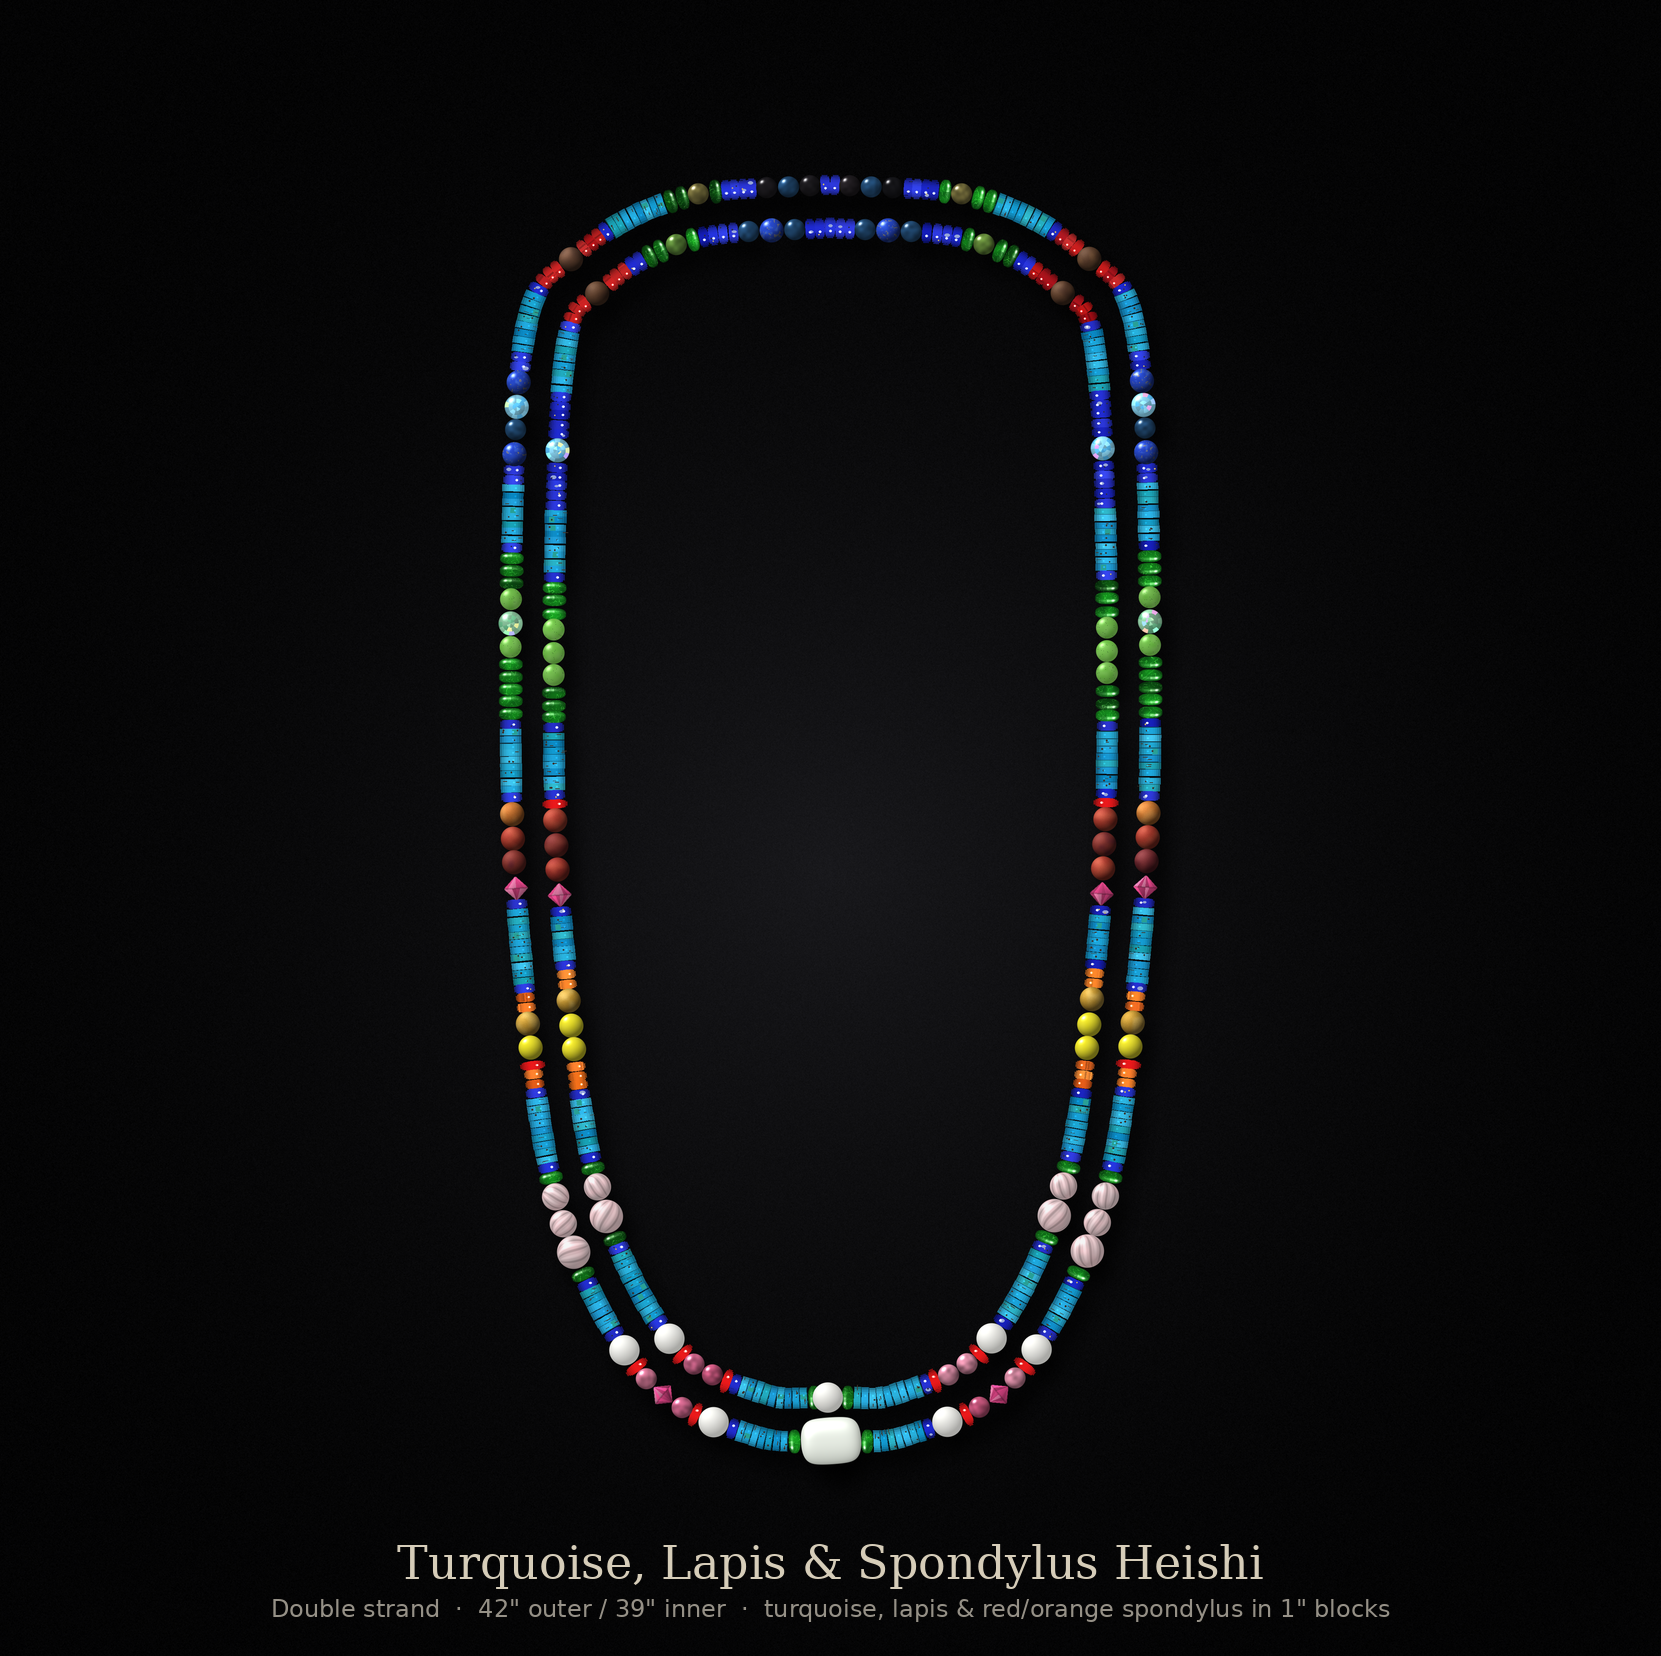
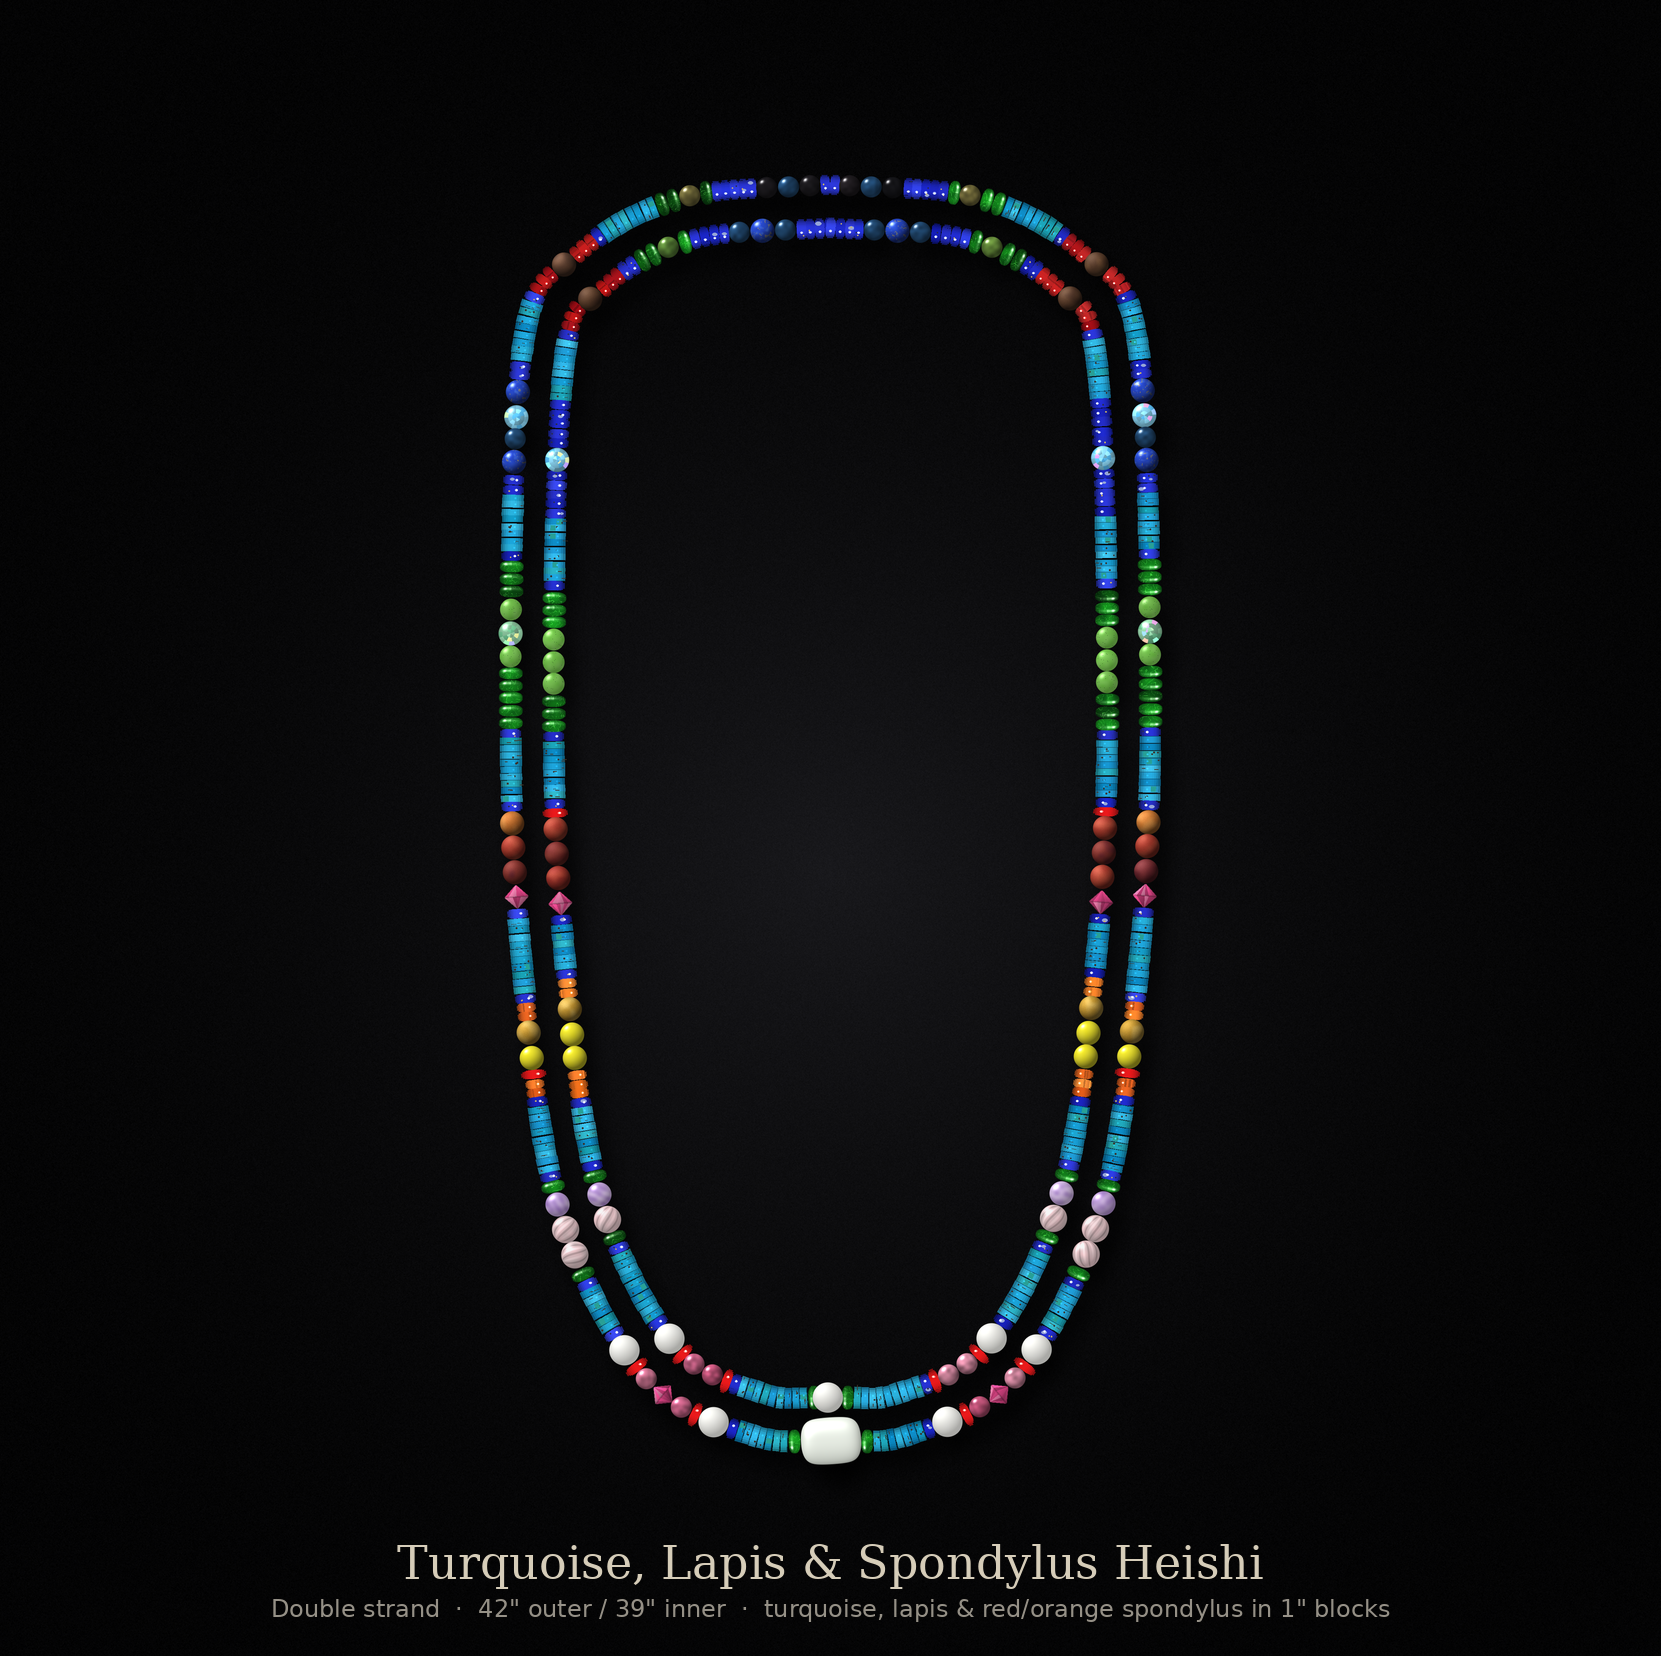
Version 5: amethyst over 9mm rose quartz; 11mm rose quartz removed
Claude-Session: https://claude.ai/code/session_014be1vF4Rdf8sv9Si75Gudv

diff --git a/necklace/render_necklace.py b/necklace/render_necklace.py
@@ -439,7 +439,7 @@ ROSE_D = 9.0
 PER_D, PER_L = 8.0, 4.0              # chrome diopside rondelle: 8 mm across, 4 mm along the strand
 def tsize(t):
     k = t[5] if len(t) > 5 else "tour"
-    return {"rose": ROSE_D, "rose11": 11.0, "tour_ybright": 7.0, "wjade": (10.5 if V3 else 19.7), "conch12": 12.0, "lapis8": 8.0, "conch8": 8.0, "mook8": 8.0, "abgreen8": 8.0, "yellow8": 8.0, "bicone8": 8.0, "gjade7t": 7.3, "v4_gglass": 8.0, "v4_olive": 7.0, "v4_opal10": 10.0, "v4_opal9": 9.0, "v5_opal8": 8.0, "v4_rbic": 8.0, "v4_sapph": 8.0, "v5_mookred": 8.0, "v5_tblue": 7.0, "v5_mookyel": 8.0, "v5_mookrd": 8.0, "v5_mookorg": 8.0, "ajas_t": 10.0, "bicone_lime": 8.0, "peridot": PER_L, "peridot2": 2 * PER_L, "peridot3": 3 * PER_L}.get(k, TOUR_D)
+    return {"rose": ROSE_D, "rose11": 11.0, "tour_ybright": 7.0, "wjade": (10.5 if V3 else 19.7), "conch12": 12.0, "lapis8": 8.0, "conch8": 8.0, "mook8": 8.0, "abgreen8": 8.0, "yellow8": 8.0, "bicone8": 8.0, "gjade7t": 7.3, "v4_gglass": 8.0, "v4_olive": 7.0, "v4_opal10": 10.0, "v4_opal9": 9.0, "v5_opal8": 8.0, "v5_amet": 8.0, "v4_rbic": 8.0, "v4_sapph": 8.0, "v5_mookred": 8.0, "v5_tblue": 7.0, "v5_mookyel": 8.0, "v5_mookrd": 8.0, "v5_mookorg": 8.0, "ajas_t": 10.0, "bicone_lime": 8.0, "peridot": PER_L, "peridot2": 2 * PER_L, "peridot3": 3 * PER_L}.get(k, TOUR_D)
 tourm = {0: [], 1: []}
 for n in range(0, 42):
     s_o = (n + 0.5) * INCH - HIDDEN_OUT / 2
@@ -931,7 +931,7 @@ if V4:
     SZ = {"diop": PER_L_, "jade": 7.3, "gglass": 8.0, "gtourm": 7.0, "olive": 7.0, "tan": 7.0, "pink": 7.0,
           "black": 7.0, "yellow": 8.0, "opal10": 10.0, "opal9": 9.0, "rq9": 9.0, "rq11": 11.0, "ajas": 10.0,
           "mook": 8.0, "rbic": 8.0, "sapph": 8.0, "lapis8": 8.0, "blueglass": 8.0, "red": 3.0, "orange": 3.0,
-          "redglass": 3.0, "focal": 19.7, "lapisH": 3.0, "mookred": 8.0, "tblue": 7.0, "mookyel": 8.0, "mookrd": 8.0, "mookorg": 8.0, "opal8": 8.0}
+          "redglass": 3.0, "focal": 19.7, "lapisH": 3.0, "mookred": 8.0, "tblue": 7.0, "mookyel": 8.0, "mookrd": 8.0, "mookorg": 8.0, "opal8": 8.0, "amet": 8.0}
     def F(core, flank, n):                     # wrap a core with n flank beads split either side
         a = n // 2; b = n - a
         return [flank] * a + core + [flank] * b
@@ -989,7 +989,7 @@ if V4:
         BANDS[6] = (["mookorg", "mookrd", "mookred", "mookrd"],                             # brown/red, one bead fewer
                     ["redglass", "mookrd", "mookred", "mookrd", "redglass"])                 # brown/red, one bead fewer
         # rose quartz band where the whites were (per side: 3 x 9 mm + 2 x 11 mm, so 6 + 4 in all)
-        BANDS[7] = (["diop", "rq9", "rq9", "rq11", "diop"], ["diop", "rq9", "rq11", "diop"])   # 11 mm at the bottom of the rose band
+        BANDS[7] = (["diop", "amet", "rq9", "rq9", "diop"], ["diop", "amet", "rq9", "diop"])     # amethyst on top, 9 mm rose quartz below; no 11 mm
         # whites (10 mm) move to the bottom band next to the focal; inner strand's centre bead is a white too
         BANDS[8] = (["opal10", "redglass", "pink", "rbic", "pink", "redglass", "opal10"],
                     ["opal10", "redglass", "pink", "pink", "redglass"])
@@ -1049,7 +1049,7 @@ if V4:
     LAP_BUDGET = {0: 15, 1: 15}                # lapis heishi used as dark filler, from the top down (per side)
     KIND_T = {"diop": "peridot", "jade": "gjade7t", "gglass": "v4_gglass", "gtourm": "tour_green", "olive": "v4_olive",
               "tan": "tour_yellow", "pink": "tour_pink", "black": "tour_black", "yellow": "bicone_lime",
-              "opal10": "v4_opal10", "opal9": "v4_opal9", "rq9": "rose", "rq11": "rose11", "ajas": "ajas_t", "mookred": "v5_mookred", "tblue": "v5_tblue", "mookyel": "v5_mookyel", "mookrd": "v5_mookrd", "mookorg": "v5_mookorg", "opal8": "v5_opal8",
+              "opal10": "v4_opal10", "opal9": "v4_opal9", "rq9": "rose", "rq11": "rose11", "ajas": "ajas_t", "mookred": "v5_mookred", "tblue": "v5_tblue", "mookyel": "v5_mookyel", "mookrd": "v5_mookrd", "mookorg": "v5_mookorg", "opal8": "v5_opal8", "amet": "v5_amet",
               "mook": "mook8", "rbic": "v4_rbic", "sapph": "v4_sapph", "blueglass": "conch8", "focal": "wjade"}
     HEI = {"red": 2, "orange": 3, "redglass": 5}
     V5_TARGET = None
@@ -2175,6 +2175,11 @@ for st in (0, 1):
         x, y = t[0], t[1]
         tseed += 1
         if hidden(x, y):
+            continue
+        if len(t) > 5 and t[5] == "v5_amet":
+            spr = amethyst_sprite(tseed)                   # 8 mm lavender amethyst
+            px, py = P(x, y)
+            layer.paste(spr, (int(px - spr.width / 2), int(py - spr.height / 2)), spr)
             continue
         if len(t) > 5 and t[5] == "v5_opal8":
             spr = milky_opal_sprite(tseed, 8.0)
